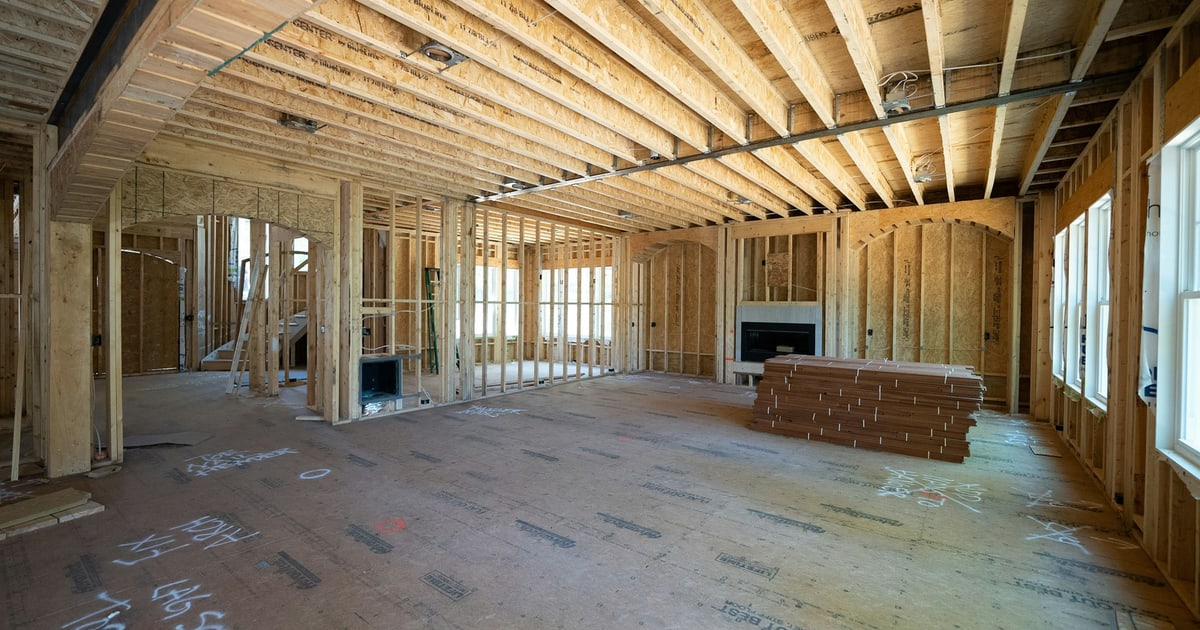
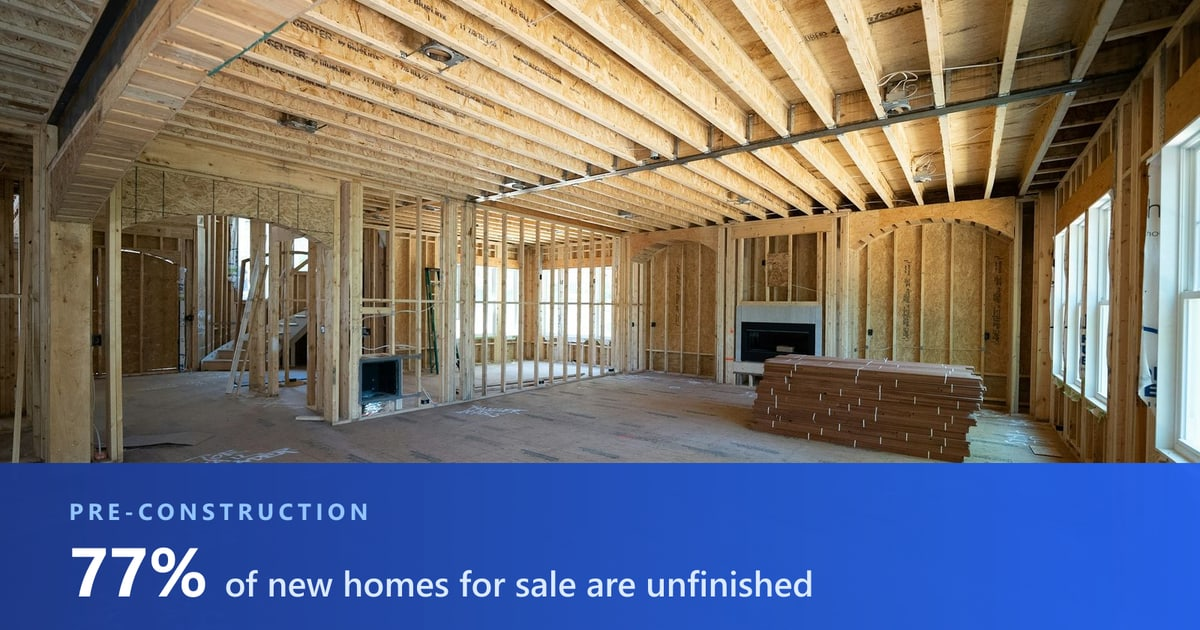
Composite a stat band onto the article 12 cover
Brings the cover back into the house language, where covers 3, 5, 7, 9 and 10
all carry a composited graphic over the photo.

Not the same device, though. Covers 7, 9, 10 and 11 all opened with a white
rounded card in the TOP-LEFT, and that was retired at cover-11 for being
samey across four covers running. This changes both the position and the
material: a full-width band along the bottom, in the #1e3a8a to #2563eb
gradient the site already uses for .article-cta. In the hub grid it also
separates cleanly from the white cards on covers 7, 9 and 10, which sit
directly beside it.

Three other concepts were built and rejected on the 290px thumbnail, which is
the only size that decides this: plan-style dimension annotation drawn on the
subfloor (best idea, but white type over busy framing turns to mush), a white
bottom band with a slogan (readable, but a slogan is weaker than a number and
the hub card prints the headline right underneath anyway), and a big-number
scrim with no panel (reads hardest of all, but the gradient eats the daylight
that makes the photo work, the same failure cover-11 hit).

The band carries the article's own headline stat rather than its title. The
article stated 53% and 24% separately and never named the sum, so the copy now
says 77% outright; a cover leading with a number the piece never states is a
cover that looks made up.

Cover changes mean three alt texts, and they now have to describe the band
text too, not just the photograph.
[…]

Changed region(s): [[0.0, 0.7238, 1.0, 1.0]]

diff --git a/public/blog/new-construction-listing-photos.html b/public/blog/new-construction-listing-photos.html
@@ -89,7 +89,7 @@
       <p class="article-meta">By <strong>Stagify.ai</strong> · August 16, 2026 · 9 min read</p>
 
       <figure class="article-figure">
-        <img src="/media-webp/blog/cover-12.webp" alt="The inside of a house under construction: bare timber wall studs and ceiling joists, open window frames, and an unfinished plywood floor with the room layout chalked onto it" width="1600" height="900">
+        <img src="/media-webp/blog/cover-12.webp" alt="The inside of a house under construction: bare timber wall studs and ceiling joists, open window frames, and an unfinished plywood floor with the room layout chalked onto it, below a blue band reading “77% of new homes for sale are unfinished”" width="1600" height="900">
       </figure>
 
       <div class="article-body">
@@ -101,7 +101,7 @@
 
         <p>The National Association of Home Builders reads the Census and HUD new-home figures every month and breaks the standing inventory down by how far along it is. In May 2026, of the roughly 496,000 new single-family homes on the market, <strong>53% were under construction and another 24% had not been started at all.</strong> About a quarter were finished.</p>
 
-        <p>So better than three quarters of the new homes for sale in America, right now, have no finished interior for anybody to walk through, let alone photograph. And that state of affairs is not brief. Census Survey of Construction data puts a single-family home built for sale at about <strong>7.6 months from permit to completion</strong>, and roughly 9.1 months if you count the authorization time in front of it. A house built by its owner takes 15.1.</p>
+        <p>Add those two together and <strong>77% of the new homes for sale in America, right now, have no finished interior</strong> for anybody to walk through, let alone photograph. And that state of affairs is not brief. Census Survey of Construction data puts a single-family home built for sale at about <strong>7.6 months from permit to completion</strong>, and roughly 9.1 months if you count the authorization time in front of it. A house built by its owner takes 15.1.</p>
 
         <p>Your listing is therefore live, competing in the same search grid as finished resale homes, for the better part of a year before there is a room in it. That is the problem to solve, and it is a marketing problem long before it is a photography one.</p>
 

diff --git a/public/index.html b/public/index.html
@@ -1871,7 +1871,7 @@
         </div>
         <div class="home-blog__grid reveal">
           <a class="home-blog__card" href="/blog/new-construction-listing-photos">
-            <img class="home-blog__thumb" src="media-webp/blog/cover-12-thumb.webp" alt="The inside of a house under construction, with bare timber wall studs and the room layout chalked onto the plywood floor" width="400" height="225" loading="lazy">
+            <img class="home-blog__thumb" src="media-webp/blog/cover-12-thumb.webp" alt="The inside of a house under construction, with bare timber wall studs, below a blue band reading “77% of new homes for sale are unfinished”" width="400" height="225" loading="lazy">
             <div class="home-blog__body">
               <span class="home-blog__tag">New Construction</span>
               <h3 class="home-blog__title">You Can’t Photograph a House That Isn’t Built Yet</h3>

diff --git a/public/blog/index.html b/public/blog/index.html
@@ -168,7 +168,7 @@
 
       <div class="blog-grid">
         <a class="blog-card" href="/blog/new-construction-listing-photos">
-          <img class="blog-card__thumb" src="/media-webp/blog/cover-12-thumb.webp" alt="The inside of a house under construction, with bare timber wall studs and the room layout chalked onto the plywood floor" loading="lazy">
+          <img class="blog-card__thumb" src="/media-webp/blog/cover-12-thumb.webp" alt="The inside of a house under construction, with bare timber wall studs, below a blue band reading “77% of new homes for sale are unfinished”" loading="lazy">
           <div class="blog-card__body">
             <span class="blog-card__tag">New Construction</span>
             <h2 class="blog-card__title">You Can’t Photograph a House That Isn’t Built Yet</h2>
